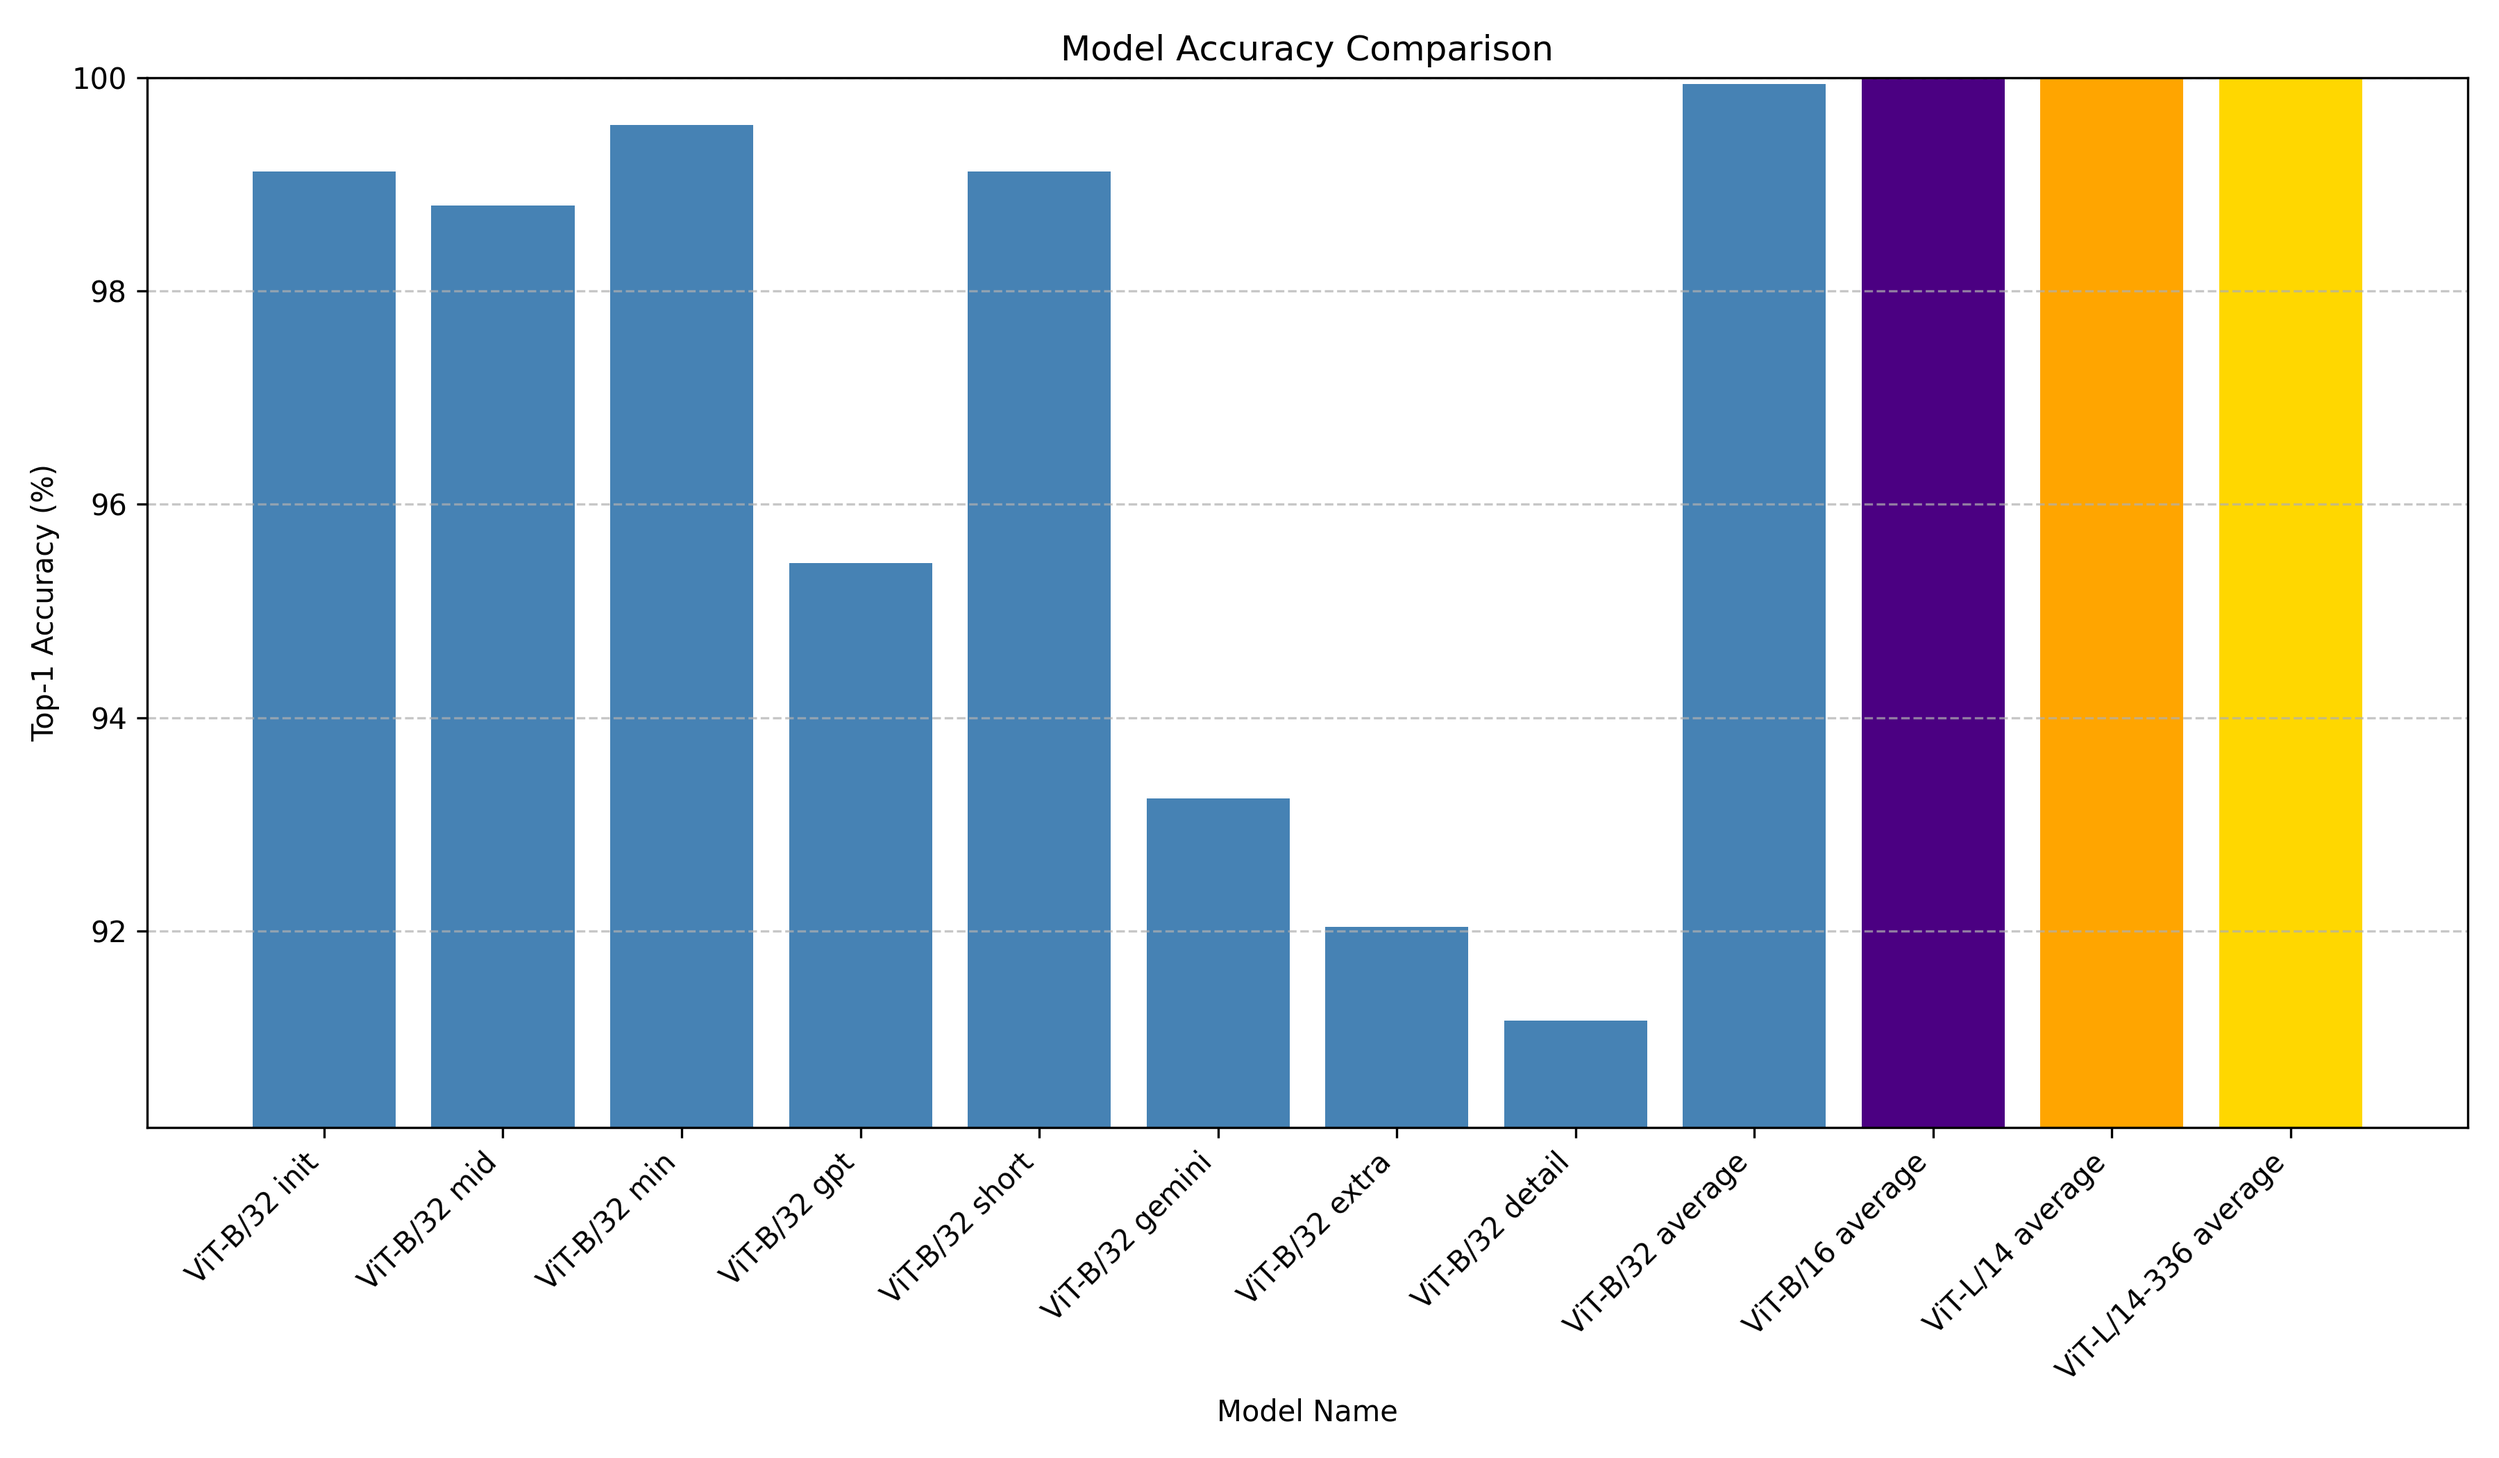
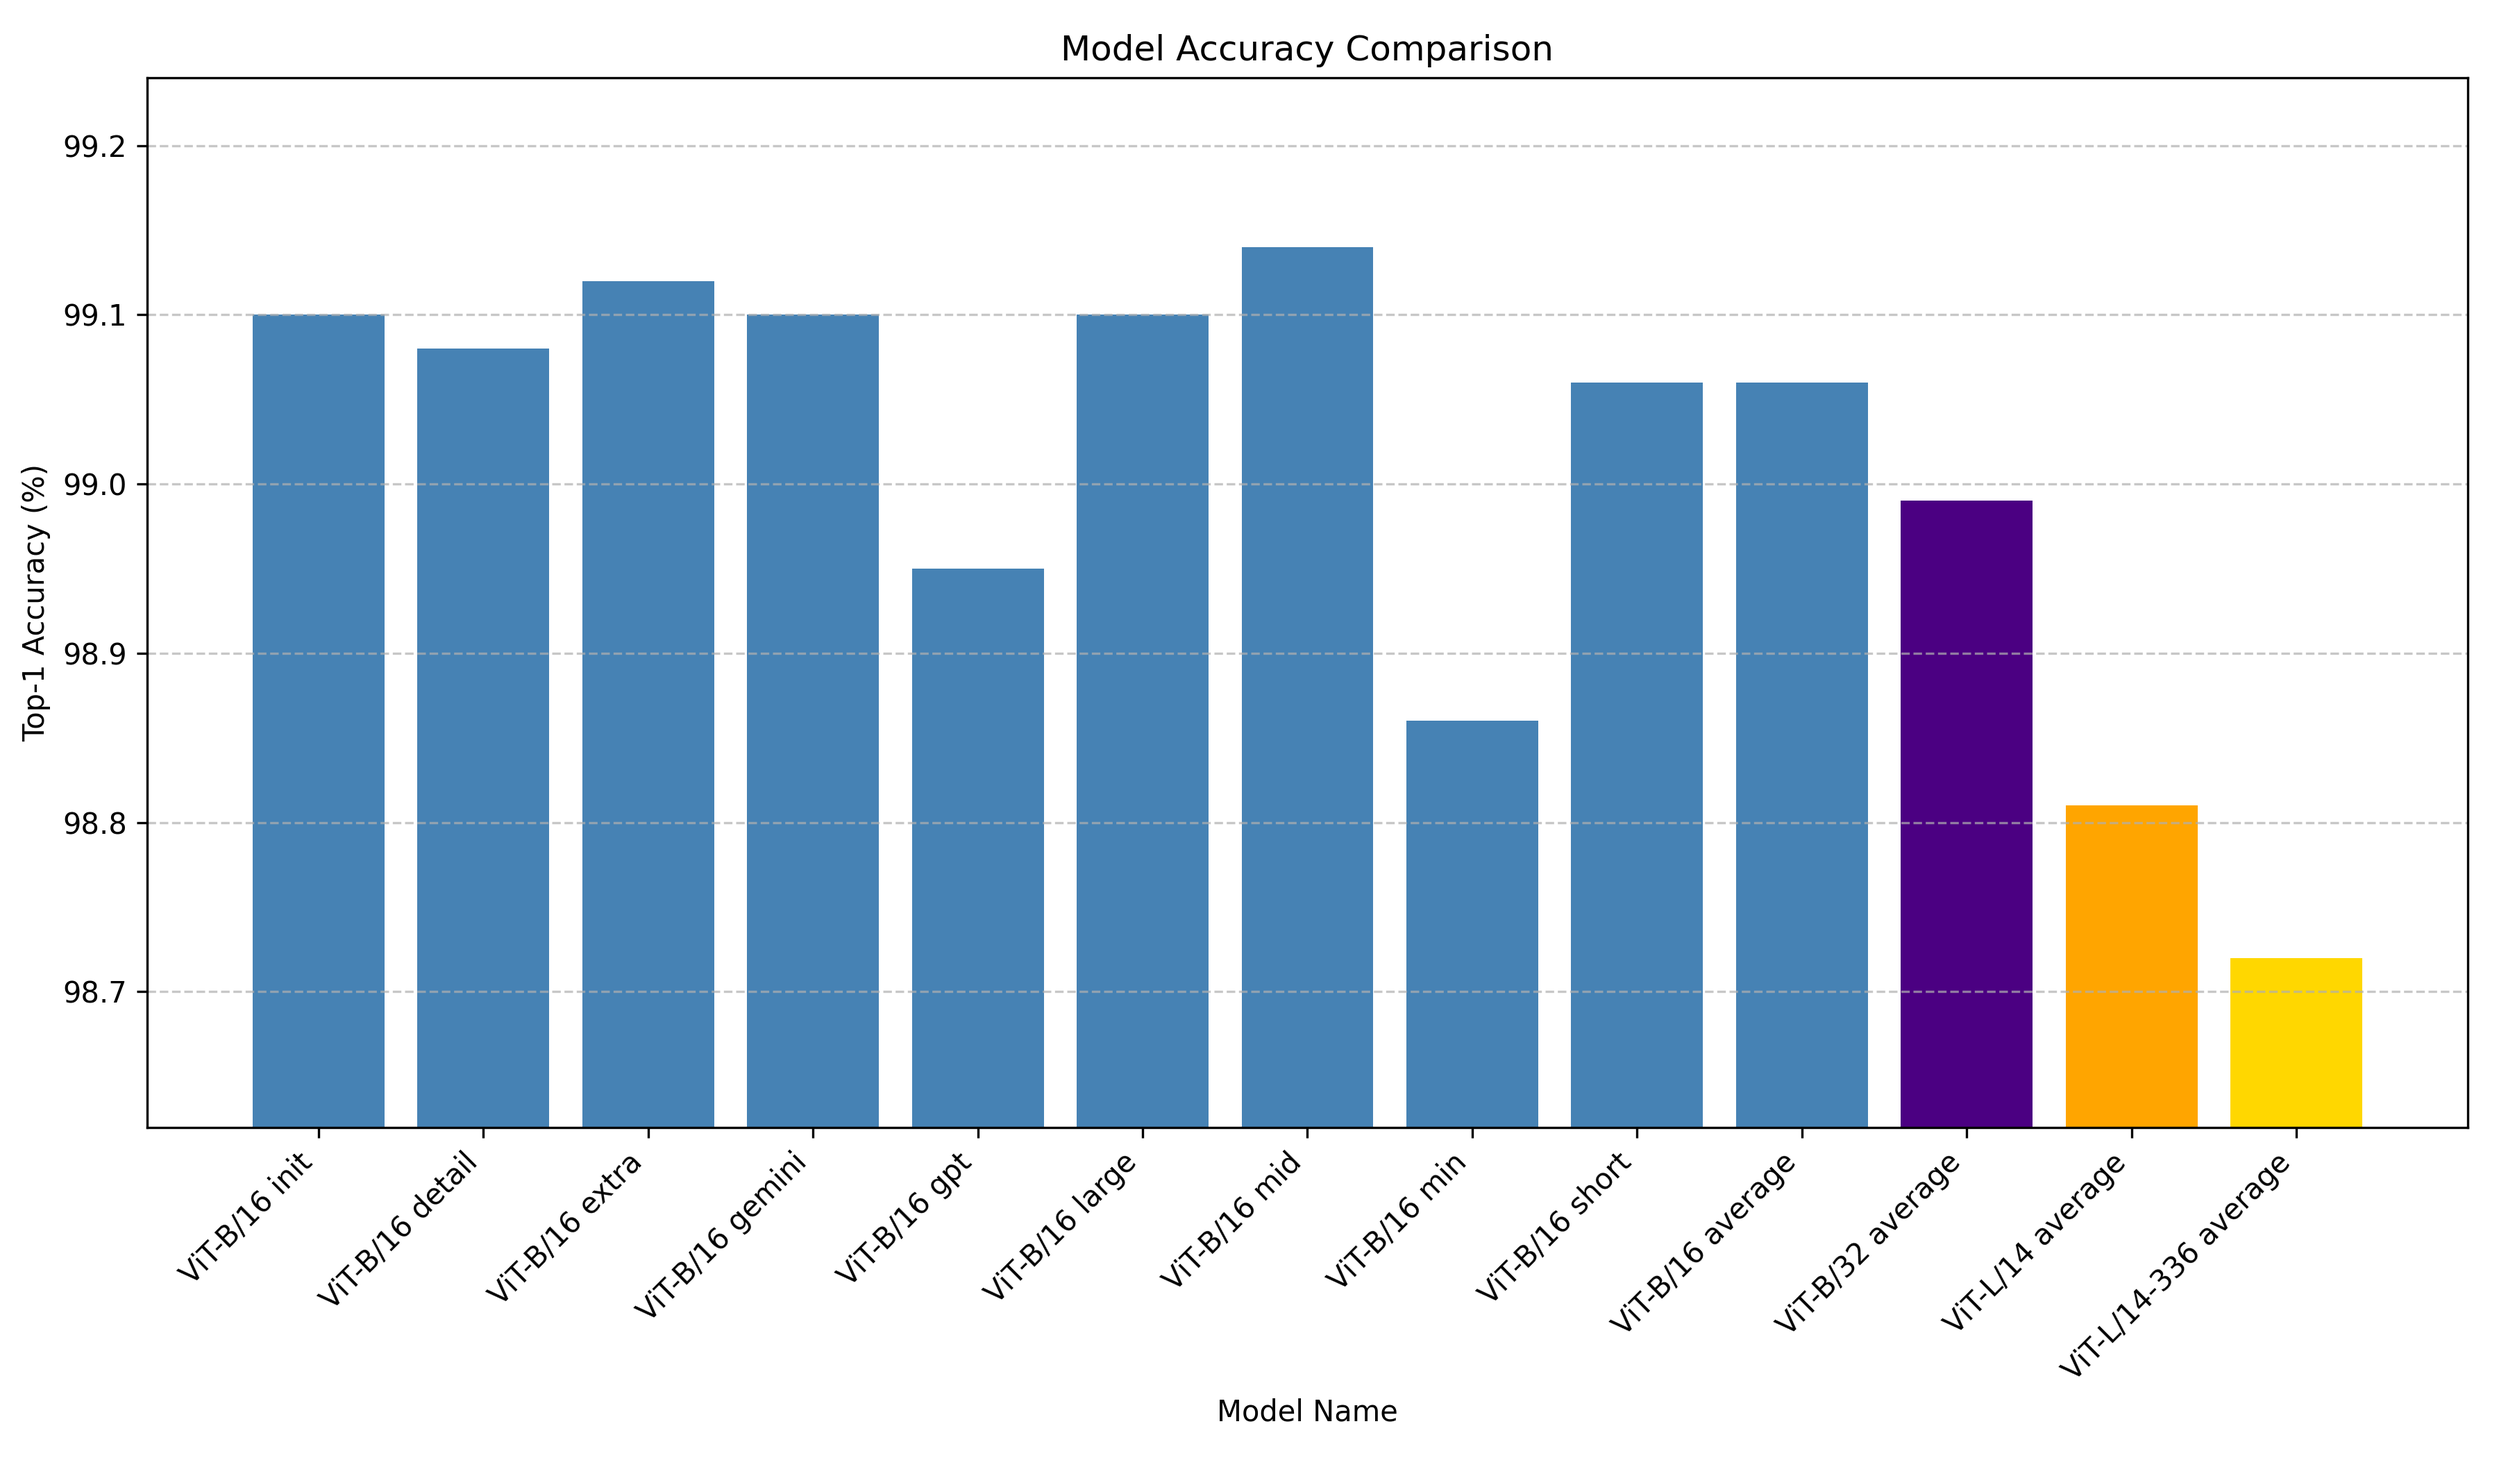
update for new clip models

diff --git a/CLIP/run.py b/CLIP/run.py
@@ -172,13 +172,14 @@ if __name__ == "__main__":
     output_dir.mkdir(exist_ok=True)
 
     cat_directory = str(cur / args.cat_dir)
-    clip_instance = CLIP(max_category_samples=args.max_categ, test_ratio=test_size,
-                         eval_max_category_samples=args.max_categ_eval,
-                         top_N=args.topn, model_name=args.model, device=device,
-                         categories_tsv=categ_file, seed=seed, input_format=input_format,
-                         output_dir=str(output_dir), categories_dir=cat_directory,
-                         model_dir=str(model_path), cp_dir=str(cp_dir), revision=args.revision.replace('.', ''),
-                         cat_prefix=args.cat_prefix, avg=args.avg, zero_shot=args.zero_shot)
+    if not args.vis:
+        clip_instance = CLIP(max_category_samples=args.max_categ, test_ratio=test_size,
+                             eval_max_category_samples=args.max_categ_eval,
+                             top_N=args.topn, model_name=args.model, device=device,
+                             categories_tsv=categ_file, seed=seed, input_format=input_format,
+                             output_dir=str(output_dir), categories_dir=cat_directory,
+                             model_dir=str(model_path), cp_dir=str(cp_dir), revision=args.revision.replace('.', ''),
+                             cat_prefix=args.cat_prefix, avg=args.avg, zero_shot=args.zero_shot)
 
     data_dir = config.get("TRAIN", "FOLDER_PAGES")
     data_dir_eval = config.get("EVAL", "FOLDER_PAGES")

diff --git a/CLIP/minor_classes.py b/CLIP/minor_classes.py
@@ -262,8 +262,8 @@ def visualize_results(csv_file: str, output_dir: str, zero_shot: bool = False):
     :param base_model_colors: Dictionary to map base model names to specific colors.
     """
     base_model_colors = {
-        "ViT-B/32 ": "steelblue",
-        "ViT-B/16 ": "indigo",
+        "ViT-B/32 ": "indigo",
+        "ViT-B/16 ": "steelblue",
         "ViT-L/14 ": "orange",
         "ViT-L/14-336 ": "gold"
     }
@@ -315,7 +315,7 @@ def visualize_results(csv_file: str, output_dir: str, zero_shot: bool = False):
     plt.tight_layout()
 
     # set min-max y-axis values
-    plt.ylim(results_df['accuracy'].min()-1, 100 if results_df['accuracy'].max() == 100 else results_df['accuracy'].max()+1)
+    plt.ylim(results_df['accuracy'].min()-0.1, 100 if results_df['accuracy'].max() == 100 else results_df['accuracy'].max()+0.1)
 
     # Save the plot
     plot_output_dir = Path(output_dir)
